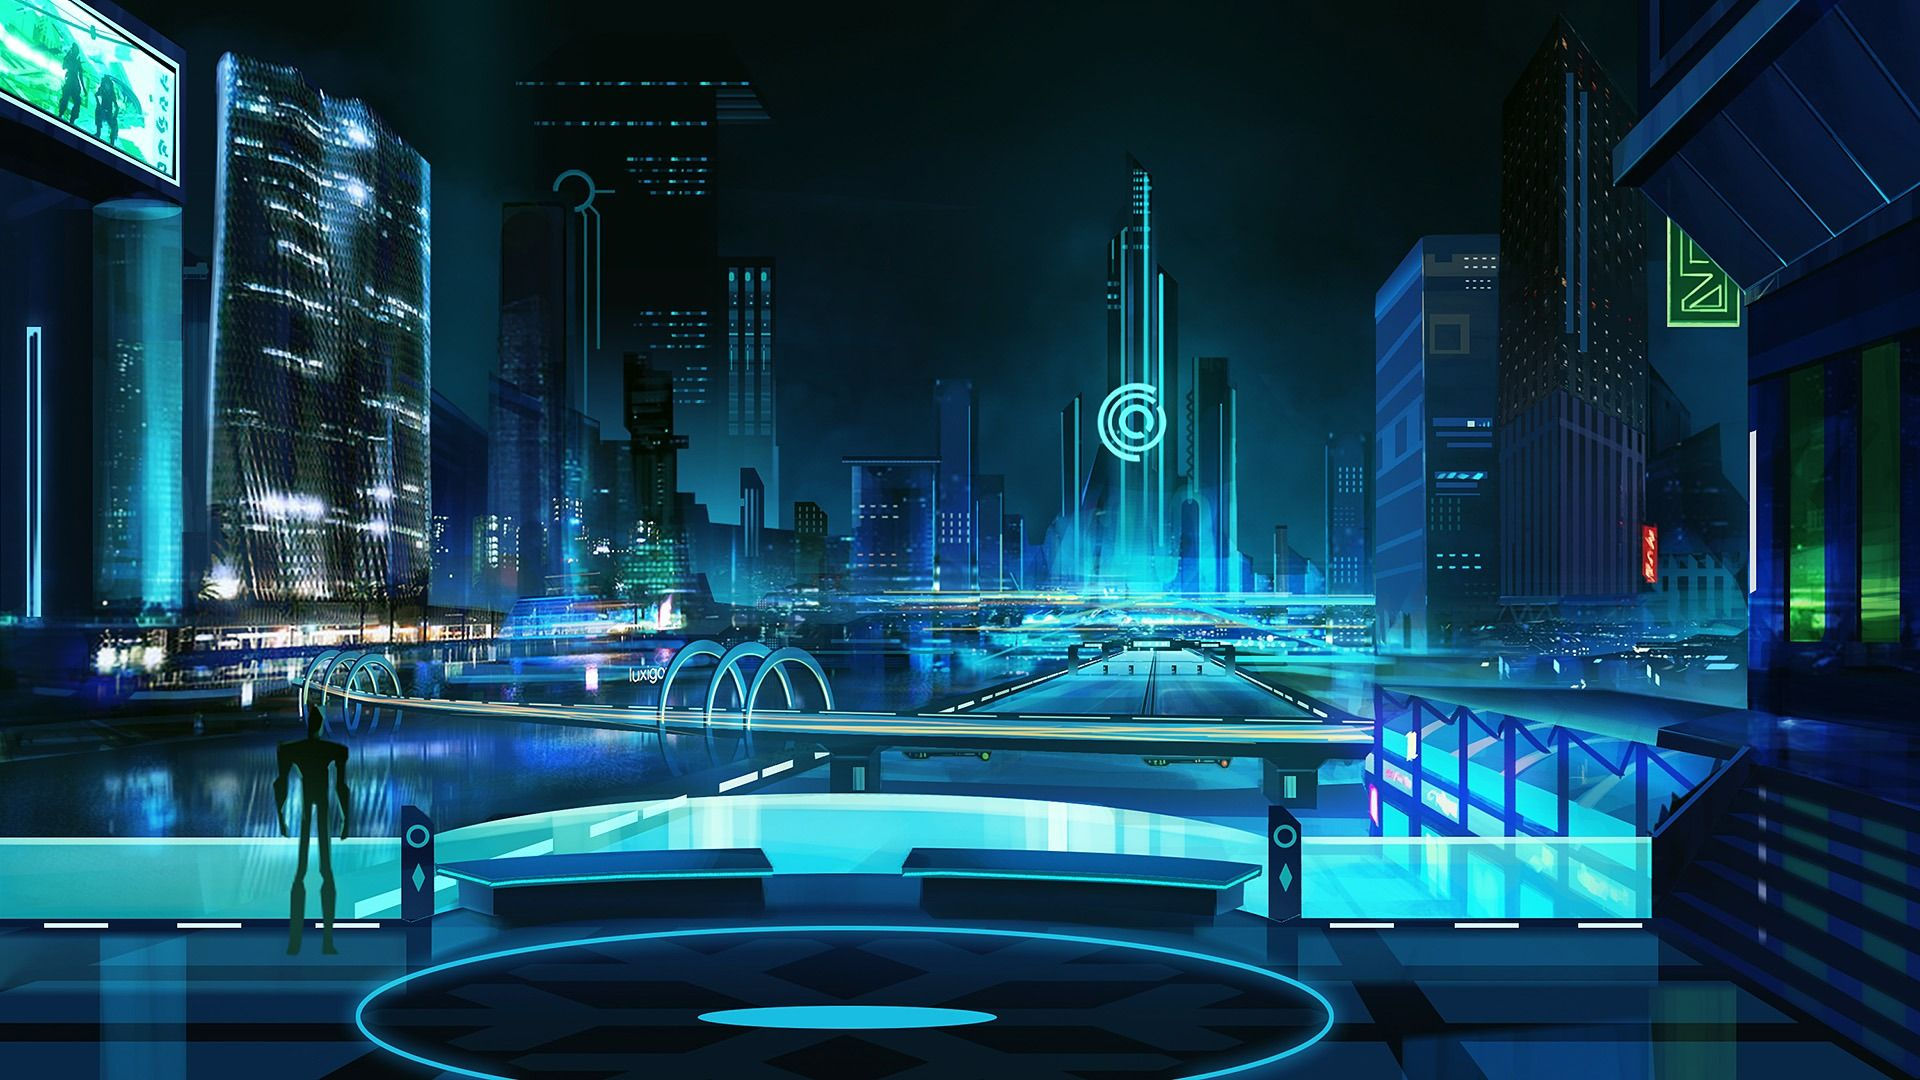
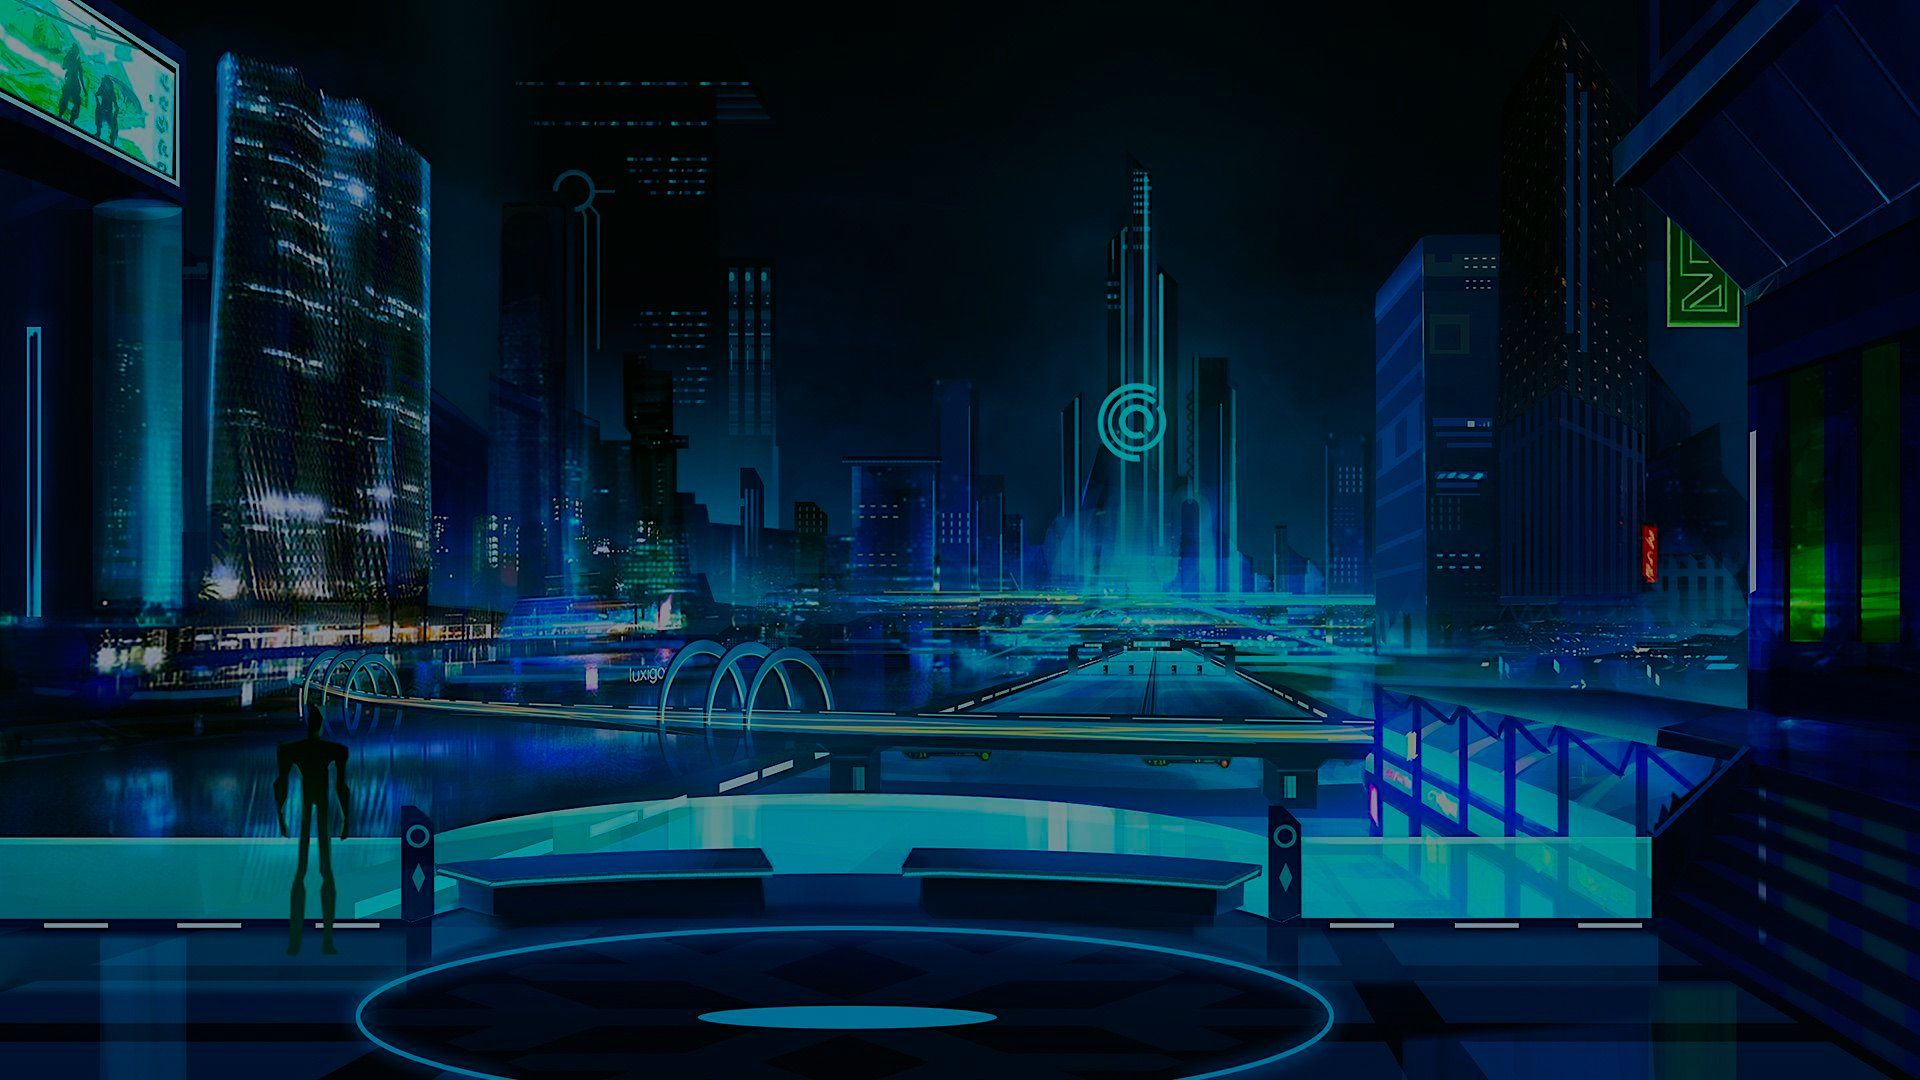
added a login page

diff --git a/pages/login.jsx b/pages/login.jsx
@@ -1,0 +1,88 @@
+// index page that next.js will use
+import React from 'react';
+import { ThemeProvider, createTheme, Arwes, Frame, Button } from 'arwes';
+import { Form, FormField, Grommet, Box } from 'grommet';
+import './static/index.css';
+import HeaderComponent from '../components/header/component';
+import { useLoaded } from '../util';
+
+const theme = createTheme({ animTime: 500 });
+
+const LogIn = () => {
+    const [formData, setFormData] = React.useState({});
+
+    const handleUserInput = e => {
+        setFormData({ ...formData, [e.target.name]: e.target.value });
+    };
+
+    const submitFormData = () => {
+        console.log(formData);
+    };
+    const loaded = useLoaded();
+
+    return (
+        <>
+            {loaded && (
+                <ThemeProvider theme={theme}>
+                    <Arwes background="/login_back.jpeg">
+                        <div>
+                            <HeaderComponent />
+                        </div>
+                        <div
+                            style={{
+                                margin: '0 auto',
+                                paddingLeft: '18%',
+                                paddingRight: '18%',
+                                marginTop: '5%',
+                                paddingBottom: 50,
+                            }}
+                        >
+                            <Frame style={{ marginBottom: 20, textAlign: 'center' }}>
+                                <h1>Welcome Back</h1>
+                            </Frame>
+                            <Frame level={2} corners={4}>
+                                <Grommet
+                                    theme={{
+                                        formField: { border: { color: '#029CBB', size: 'small' } },
+                                        radioButton: { border: { width: '2px', color: '#029CBB' } },
+                                    }}
+                                >
+                                    <Form>
+                                        <Box width="medium" flex fill>
+                                            <FormField
+                                                name="username"
+                                                label="UserName"
+                                                type="text"
+                                                onChange={handleUserInput}
+                                            />
+                                            <FormField
+                                                name="pwd"
+                                                label="Password"
+                                                type="password"
+                                                onChange={handleUserInput}
+                                            />
+                                        </Box>
+                                        <Box align="center" margin="medium">
+                                            <Button
+                                                color="#25DAFD"
+                                                type="submit"
+                                                primary
+                                                label="Submit"
+                                                layer="success"
+                                                onClick={submitFormData}
+                                            >
+                                                Enter the Cyberpunk
+                                            </Button>
+                                        </Box>
+                                    </Form>
+                                </Grommet>
+                            </Frame>
+                        </div>
+                    </Arwes>
+                </ThemeProvider>
+            )}
+        </>
+    );
+};
+
+export default LogIn;
